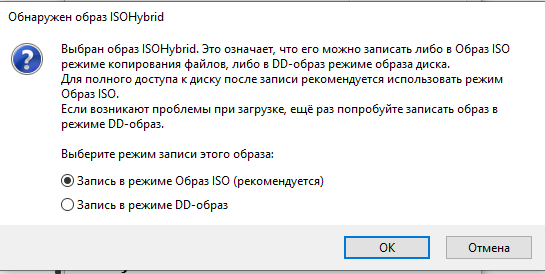
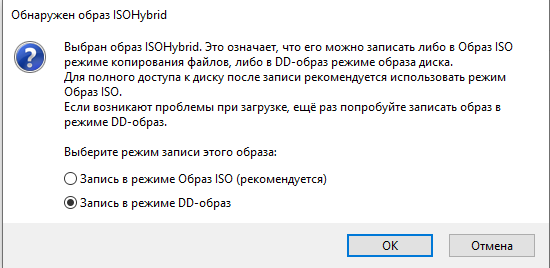
Небольшие правки: Rufus

diff --git a/docs/system/bootable-drive.md b/docs/system/bootable-drive.md
@@ -146,7 +146,7 @@ cd balenaEtcher-linux-x64
 
 [Rufus](https://rufus.ie) — утилита для форматирования и создания загрузочных флешек, карт памяти и т.д. из-под Windows
 
-1. Загрузите установщик или переносную версию (с постфиксом `p`) и запустите программ:
+1. Загрузите установщик или переносную версию (с постфиксом `p`) и запустите программу:
 
 ![Окно Rufus](/bootable-drive/bootable-drive-rufus-1.png)
 
@@ -154,7 +154,7 @@ cd balenaEtcher-linux-x64
 
 ![Rufus с выбранным образом](/bootable-drive/bootable-drive-rufus-2.png)
 
-3. Выберите режим записи, нажмите кнопку `ОК` в этом окне и следующем окне подтверждения:
+3. Выберите `Записать в режиме DD-образ`, нажмите кнопку `ОК` в этом окне и следующем окне подтверждения:
 
 ![Окно Rufus с выбором режима записи](/bootable-drive/bootable-drive-rufus-3.png)
 
